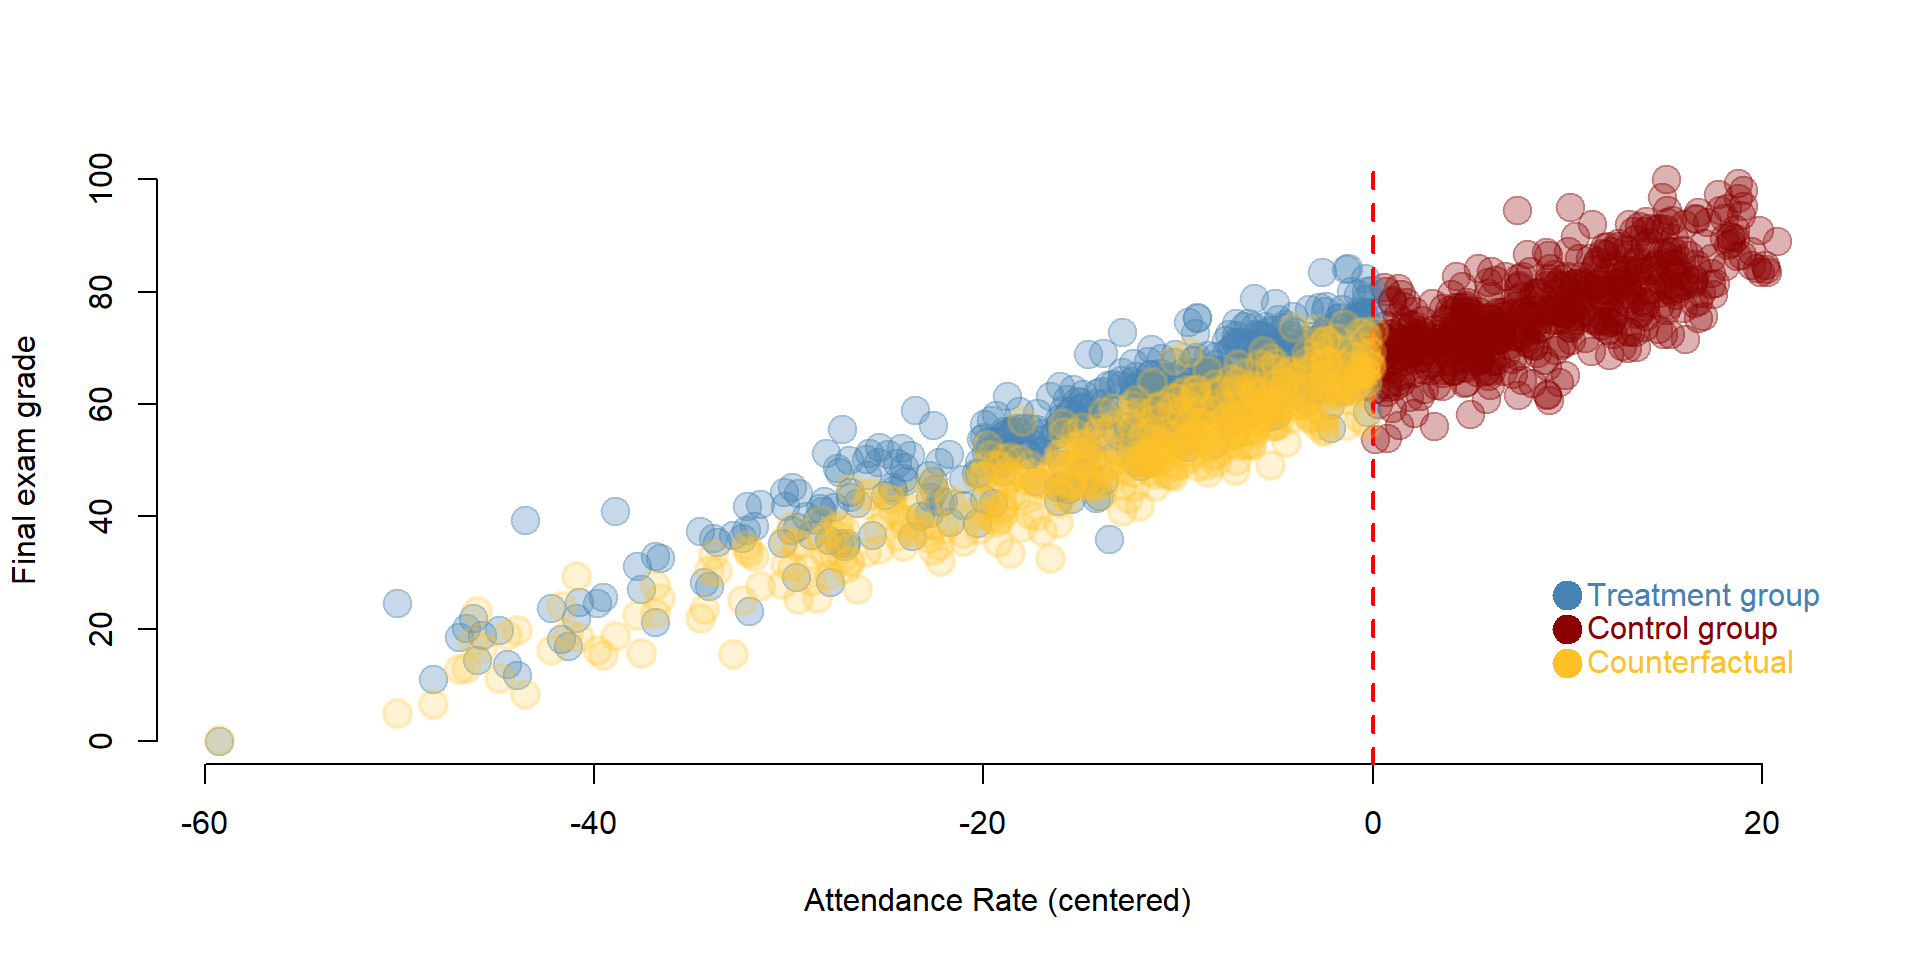
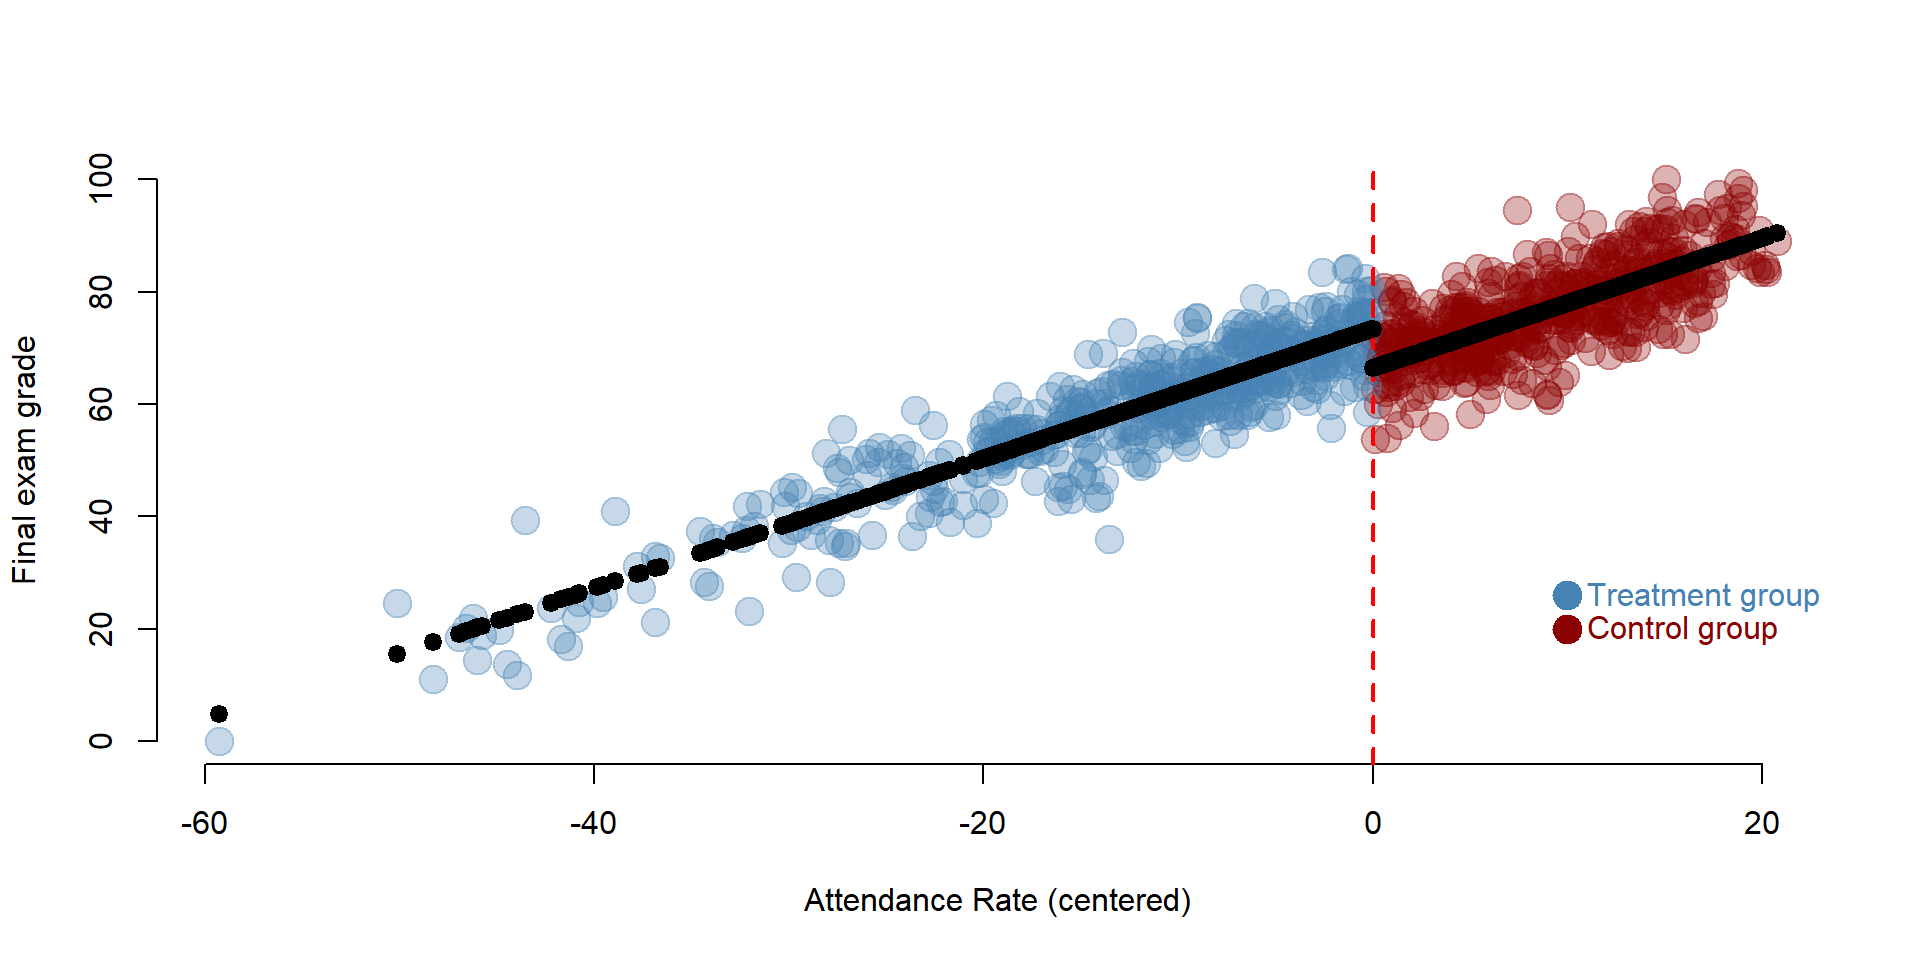
Updated Regression Disc lecture

Changed region(s): [[0.1875, 0.2188, 0.9375, 0.7812], [0.8125, 0.6562, 0.9375, 0.7188], [0.0938, 0.7188, 0.125, 0.7812]]

diff --git a/docs/RegDisc.html b/docs/RegDisc.html
@@ -514,7 +514,7 @@ div.tocify {
 <li>A house subsidy program to support low-income populations paying rent. Only individuals with a income below a certain level will receive the subside (treatment group) while others will not (control group); <br> <br></li>
 <li>A law that faciliates admission to college for the top 10% students from low-ranked high schools; students in the top 10% will be part of the program (treatment group), while students below the top 10% will not (control group)</li>
 </ul>
-<p>Let’s look at an example where a scholarship is offered to low income students to attend college. You can see a representation of the model in figure <a href="#fig:rdfigure">1.1</a>. The x axis is the family income based on which we assign students to the treatment or control group. We call it the <em>rating variable</em>. The y axis is the likelihood to enroll into college. It is our <em>outcome variable</em>. There is a positive relationship between the two: students from higher income families are more likely to enroll to college.</p>
+<p>The key problem is the <strong>endogeneity between the outcome and the assignment of the treatment</strong>. Scholarships are a classical example. For instance, let’s imagine a scholarship which is offered to low income students to attend college. You can see a representation of the model in figure <a href="#fig:rdfigure">1.1</a>. The x axis is the family income based on which we assign students to the treatment or control group. We call it the <em>rating variable</em>. The y axis is the likelihood to enroll into college. It is our <em>outcome variable</em>. There is a positive relationship between the two: students from higher income families are more likely to enroll to college.</p>
 <div class="figure"><span id="fig:rdfigure"></span>
 <img src="FIGURE/RegDisc/Picture1.png" alt="Students' family income and college enrollment" width="60%" />
 <p class="caption">
@@ -528,14 +528,17 @@ Figure 1.1: Students’ family income and college enrollment
 Figure 1.2: Control and treatment group based on the cutoff
 </p>
 </div>
-<p>We expect a positive effect of the scholarship, such that more students in low income families (treatment group) will enroll into college than usual.</p>
+<p>Comparing these two groups, however, is problematic. Students who did not receive the scholarship (the control group) are more likely to go to college even without the scholarship because of their income. Their enrollment is likely to remain higher than the enrollment of low-income students. This does not imply that the scholarship has no effect: it might be that in the absence of the treatment (i.e., without the scholarship), low-income students would have been even less likely to enroll to college.</p>
+<p>Regression discontinuity is used to solve this problem and assess whether or not we observe a treatment effect. It does so by accounting for the relationship between the outcome and the rating variable and then calculating the difference between the two groups.</p>
 <div class="figure"><span id="fig:rdfigure3"></span>
 <img src="FIGURE/RegDisc/Picture3.png" alt="Treatment effect" width="60%" />
 <p class="caption">
 Figure 1.3: Treatment effect
 </p>
 </div>
-<p>The scope of a regression discontinuity model is to assess whether or not we observe a treatment effect. The treatment effect is the difference in the outcome variable between units just above and just below the cutoff point.</p>
+<blockquote>
+<p>The intuition behind the regression discontinuity design is the endogeneity of the outcome to the assignment of treatment, which might bias the estimation of the effect of the treatment. Low-income students might continue to enroll to college at a lower rate even with a scholarship, leading to a downward bias of the estimates. Similarly, low-income populations receiving a subsidy to pay rent might continue to have more housing issues than higher income individuals. Individuals who receive Medicare might have greater health problems because of age, and without controlling for the relationship between age and health outcomes, we might have a downward estimates of the effect of the program.</p>
+</blockquote>
 <div id="the-statistical-model" class="section level2">
 <h2><span class="header-section-number">1.1</span> The statistical model</h2>
 <p>In mathematical terms, we are interested in estimating the following equation:</p>
@@ -554,19 +557,19 @@ Figure 1.4: Regression discontinuity dataset
 <p>We can consider each coefficient of our equation <a href="#eq:RD">(1.1)</a> separately.</p>
 <ol style="list-style-type: decimal">
 <li><span class="math inline">\(\beta_1\)</span> represents the difference between the treatment and the control group and assesses whether the intervention had an effect. <br></li>
-<li><span class="math inline">\(\beta_2\)</span> represents the relationship between the outcome variable and the rating variable.</li>
+<li><span class="math inline">\(\beta_2\)</span> represents the relationship between the outcome variable and the rating variable. It allows us to control for endogeneity in this relationship.</li>
 </ol>
 </div>
 <div id="the-counterfactual" class="section level2">
 <h2><span class="header-section-number">1.2</span> The counterfactual</h2>
-<p>The counterfactual is <em>what it would have occured to Y, had the policy intervention not happened</em>. In our previous regression discontinuity model, the counterfactual is the students’ likelihood to enroll, if they had not received the scholarship.</p>
+<p>The counterfactual is <em>what it would have occured to Y, had the policy intervention not happened</em>. It is very important in regression discontinuity . For instance, in our previous regression discontinuity model, the counterfactual is the students’ likelihood to enroll, if they had not received the scholarship.</p>
 <div class="figure"><span id="fig:counterfactual"></span>
 <img src="FIGURE/RegDisc/Picture5.png" alt="Counterfactual" width="60%" />
 <p class="caption">
 Figure 1.5: Counterfactual
 </p>
 </div>
-<p>If we take our equation <a href="#eq:RD">(1.1)</a>, the counterfactual is obtained by assuming that the intervetion has not occurend (Treatment = 0), so that Y is only predicted by its relationship with rating variable:</p>
+<p>If we take our equation <a href="#eq:RD">(1.1)</a>, the counterfactual is obtained by assuming that the intervetion has not occured (Treatment = 0), so that Y is only predicted by its relationship with rating variable:</p>
 <span class="math display" id="eq:RDCounterfactual">\[\begin{equation} 
 \text{Y} = \beta_0 + \beta_1*0 + \beta_2*Score + \text{e}
   \tag{1.2}
@@ -627,6 +630,12 @@ Figure 2.1: Source: <a href="https://www.pinterest.com/youthchange/classroom-pos
 </tr>
 </tbody>
 </table>
+<p>The problem with comparing the treatment and the control group is that students with lower attendance (treatment group) are more likely to have lower grades than students with higher attendance. Because of this, if we compare the means of the two groups we might observe no different between them.</p>
+<p>We can empirically see this:</p>
+<div class="sourceCode"><pre class="sourceCode r"><code class="sourceCode r"><span class="kw">mean</span>(data<span class="op">$</span>Performance[data<span class="op">$</span>Treatment<span class="op">==</span><span class="dv">1</span>])</code></pre></div>
+<pre><code>## [1] 57.93795</code></pre>
+<div class="sourceCode"><pre class="sourceCode r"><code class="sourceCode r"><span class="kw">mean</span>(data<span class="op">$</span>Performance[data<span class="op">$</span>Treatment<span class="op">==</span><span class="dv">0</span>])</code></pre></div>
+<pre><code>## [1] 76.67116</code></pre>
 </div>
 <div id="analysis" class="section level2">
 <h2><span class="header-section-number">2.2</span> Analysis</h2>
@@ -790,7 +799,7 @@ data<span class="op">$</span>Treatment2 =<span class="st"> </span><span class="k
 <span class="kw">text</span>( <span class="dv">10</span>, <span class="dv">26</span>, <span class="st">&quot;Treatment group&quot;</span>, <span class="dt">col=</span><span class="st">&quot;steelblue&quot;</span>, <span class="dt">pos=</span><span class="dv">4</span> )
 <span class="kw">points</span>( <span class="dv">10</span>, <span class="dv">20</span>, <span class="dt">col=</span><span class="st">&quot;darkred&quot;</span>, <span class="dt">pch=</span><span class="dv">19</span>, <span class="dt">cex=</span><span class="dv">2</span> )
 <span class="kw">text</span>( <span class="dv">10</span>, <span class="dv">20</span>, <span class="st">&quot;Control group&quot;</span>, <span class="dt">col=</span><span class="st">&quot;darkred&quot;</span>, <span class="dt">pos=</span><span class="dv">4</span> )</code></pre></div>
-<p><img src="RegDisc_files/figure-html/unnamed-chunk-7-1.png" width="960" /></p>
+<p><img src="RegDisc_files/figure-html/unnamed-chunk-8-1.png" width="960" /></p>
 </div>
 <div id="the-counterfactual-1" class="section level2">
 <h2><span class="header-section-number">2.4</span> The counterfactual</h2>
@@ -829,7 +838,7 @@ counterfactual =<span class="st"> </span><span class="kw">adjustcolor</span>(<sp
 <span class="kw">text</span>( <span class="dv">10</span>, <span class="dv">20</span>, <span class="st">&quot;Control group&quot;</span>, <span class="dt">col=</span><span class="st">&quot;darkred&quot;</span>, <span class="dt">pos=</span><span class="dv">4</span> )
 <span class="kw">points</span>( <span class="dv">10</span>, <span class="dv">14</span>, <span class="dt">col=</span><span class="st">&quot;goldenrod1&quot;</span>, <span class="dt">pch=</span><span class="dv">19</span>, <span class="dt">cex=</span><span class="dv">2</span> )
 <span class="kw">text</span>( <span class="dv">10</span>, <span class="dv">14</span>, <span class="st">&quot;Counterfactual&quot;</span>, <span class="dt">col=</span><span class="st">&quot;goldenrod1&quot;</span>, <span class="dt">pos=</span><span class="dv">4</span> )</code></pre></div>
-<p><img src="RegDisc_files/figure-html/unnamed-chunk-8-1.png" width="960" /></p>
+<p><img src="RegDisc_files/figure-html/unnamed-chunk-9-1.png" width="960" /></p>
 </div>
 </div>
 <div id="replication-of-a-study" class="section level1">
@@ -1454,7 +1463,7 @@ data<span class="op">$</span>Treatment2 =<span class="st"> </span><span class="k
 <span class="kw">text</span>( <span class="fl">1.5</span>, <span class="dv">36</span>, <span class="st">&quot;Treatment group&quot;</span>, <span class="dt">col=</span><span class="st">&quot;steelblue&quot;</span>, <span class="dt">pos=</span><span class="dv">4</span> )
 <span class="kw">points</span>( <span class="fl">1.5</span>, <span class="dv">30</span>, <span class="dt">col=</span><span class="st">&quot;darkred&quot;</span>, <span class="dt">pch=</span><span class="dv">19</span>, <span class="dt">cex=</span><span class="dv">2</span> )
 <span class="kw">text</span>( <span class="fl">1.5</span>, <span class="dv">30</span>, <span class="st">&quot;Control group&quot;</span>, <span class="dt">col=</span><span class="st">&quot;darkred&quot;</span>, <span class="dt">pos=</span><span class="dv">4</span> )</code></pre></div>
-<p><img src="RegDisc_files/figure-html/unnamed-chunk-14-1.png" width="960" /></p>
+<p><img src="RegDisc_files/figure-html/unnamed-chunk-15-1.png" width="960" /></p>
 </div>
 </div>
 <div id="additional-notes" class="section level1">
